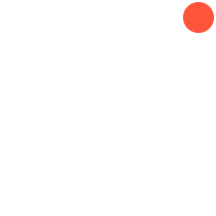
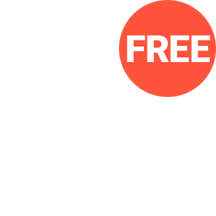
오늘의 그림 UI 수정

Changed region(s): [[0.5278, 0.0, 1.0, 0.4722]]

diff --git a/paintee-mobile/js/index/tuesday.js b/paintee-mobile/js/index/tuesday.js
@@ -113,7 +113,7 @@ Tuesday.prototype = {
                                 this.comment.append(this.title.html(convertToBr(title) + "<br>"));
                             }
                             this.comment.append(convertToBr(comment));
-                            this.comment.append(this.commentedby);
+//                            this.comment.append(this.commentedby);
                         },
         setArtist:      function(artistName){
                             var paintingId = this.paintingId;
@@ -126,8 +126,9 @@ Tuesday.prototype = {
                             this.week.html(startDateString);
 
                         },
-			  setDay:function(month, day){
-														this.day.html(month +" "+ day)
+        setDay:function(month, day){
+				        //this.day.html(month +" "+ day)
+                        this.day.html("<span data-i18n='[html]tuesday."+month+"'></span> <span data-i18n='[html]tuesday."+day+"'></span> <span data-i18n='[html]tuesday.title'></span>");
 				},
         setPost:        function(listData){
                             this.tueBtn.append(this.listBtnPost);
@@ -254,12 +255,8 @@ var startDateStringg = startDateArr[0]+'-'+startDateArr[1]+'-'+startDateArr[2];
 var startDateCompare = new Date(startDateStringg);
 
     var startDate = new Date(startDateCompare);
-		// var startDateString = startDate.getMonth()+1 + "월 "+startDate.getDate()+"일";
-		// console.log(startDate);
-		// newSlide.setWeek(startDateString);
+
 		newSlide.setDay(startDate.convertEngMonth(), startDate.getDate());
-    // newSlide.setWeek(startDate.weekCountOfMonth() + "st", startDate.convertEngMonth());
-    // 게시기간이 시작되는 날짜를 기준으로 [월] [몇번째주] 로 표시됩니다.
 
     newSlide.setPost(listData);
     newSlide.setArtist(listData.artistName);

diff --git a/paintee-android/platforms/android/assets/www/css/style.css b/paintee-android/platforms/android/assets/www/css/style.css
@@ -2013,8 +2013,8 @@ a{
 .tue_day{
     position: absolute;
     text-align: center;
-    font-family: 'Merriweather', serif;
-    font-size: 1.6em;
+    font-family: 'NanumMyeongjo', sans-serif;
+    font-size: 1.2em;
     width: 100%;
     bottom: 140px;
     color: rgba(255,255,255,0.9);

diff --git a/paintee-android/www/css/style.css b/paintee-android/www/css/style.css
@@ -2005,8 +2005,8 @@ a{
 .tue_day{
     position: absolute;
     text-align: center;
-    font-family: 'Merriweather', serif;
-    font-size: 1.6em;
+    font-family: 'NanumMyeongjo', sans-serif;
+    font-size: 1.2em;
     width: 100%;
     bottom: 140px;
     color: rgba(255,255,255,0.9);

diff --git a/paintee-ios/platforms/ios/www/css/style.css b/paintee-ios/platforms/ios/www/css/style.css
@@ -2013,8 +2013,8 @@ a{
 .tue_day{
     position: absolute;
     text-align: center;
-    font-family: 'Merriweather', serif;
-    font-size: 1.6em;
+    font-family: 'NanumMyeongjo', sans-serif;
+    font-size: 1.2em;
     width: 100%;
     bottom: 140px;
     color: rgba(255,255,255,0.9);

diff --git a/paintee-ios/www/css/style.css b/paintee-ios/www/css/style.css
@@ -2005,8 +2005,8 @@ a{
 .tue_day{
     position: absolute;
     text-align: center;
-    font-family: 'Merriweather', serif;
-    font-size: 1.6em;
+    font-family: 'NanumMyeongjo', sans-serif;
+    font-size: 1.2em;
     width: 100%;
     bottom: 140px;
     color: rgba(255,255,255,0.9);

diff --git a/paintee-mobile/css/style.css b/paintee-mobile/css/style.css
@@ -2013,8 +2013,8 @@ a{
 .tue_day{
     position: absolute;
     text-align: center;
-    font-family: 'Merriweather', serif;
-    font-size: 1.6em;
+    font-family: 'NanumMyeongjo', sans-serif;
+    font-size: 1.2em;
     width: 100%;
     bottom: 140px;
     color: rgba(255,255,255,0.9);
